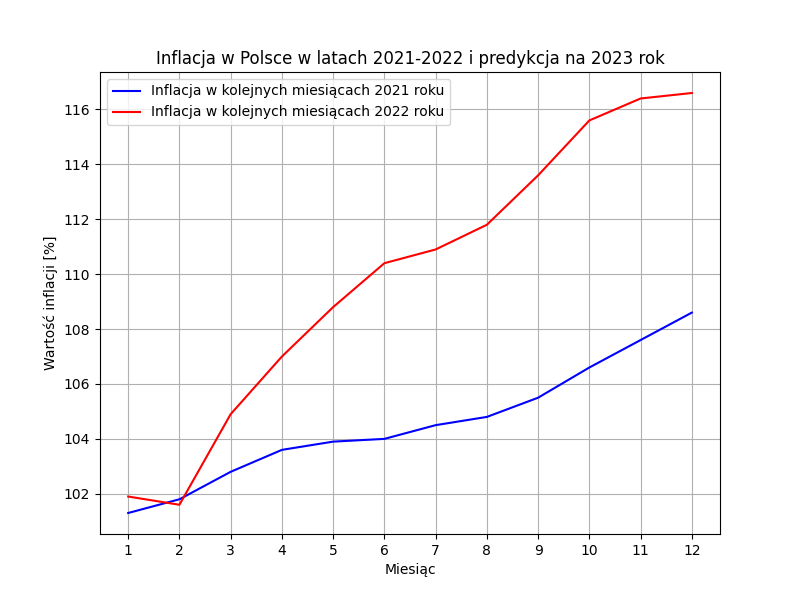
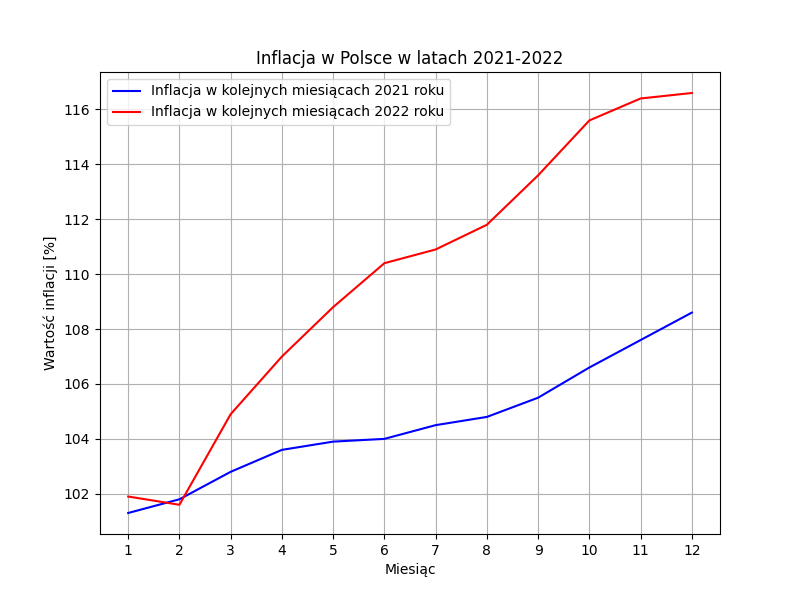
rdy

Changed region(s): [[0.1875, 0.06, 0.8438, 0.12]]

diff --git a/List09/task1.py b/List09/task1.py
@@ -4,27 +4,12 @@
 # Zamiast tego pobiorę z api inne dane do części z przewidywaniem inflacji na 2023 rok.
 from inflation import data_2021, data_2022
 from matplotlib import pyplot as plt
-from private import apikey
-import aiohttp
-import asyncio
-
-# Funkcja do pobierania danych z API
-async def fetch_data(url, headers):
-    async with aiohttp.ClientSession() as session:
-        try:
-            async with session.get(url, headers=headers) as response:
-                response.raise_for_status()
-                data = await response.text()
-                return data
-        except aiohttp.ClientResponseError as e:
-            print(e)
-            return None
 
 
 # Generowanie wykresu
 def generate_plot():
     plt.figure(figsize=(8, 6)) # Rozmiar wykresu
-    plt.title("Inflacja w Polsce w latach 2021-2022 i predykcja na 2023 rok")
+    plt.title("Inflacja w Polsce w latach 2021-2022")
     plt.xlabel("Miesiąc")
     plt.ylabel("Wartość inflacji [%]")
     plt.grid() # Dodajemy siatkę w tle
@@ -36,4 +21,4 @@ def generate_plot():
     plt.savefig("List09/result.png") # Zapisanie wykresu do pliku
     plt.show() # Wyświetlenie wykresu w oknie
     
-#generate_plot()
+generate_plot()
